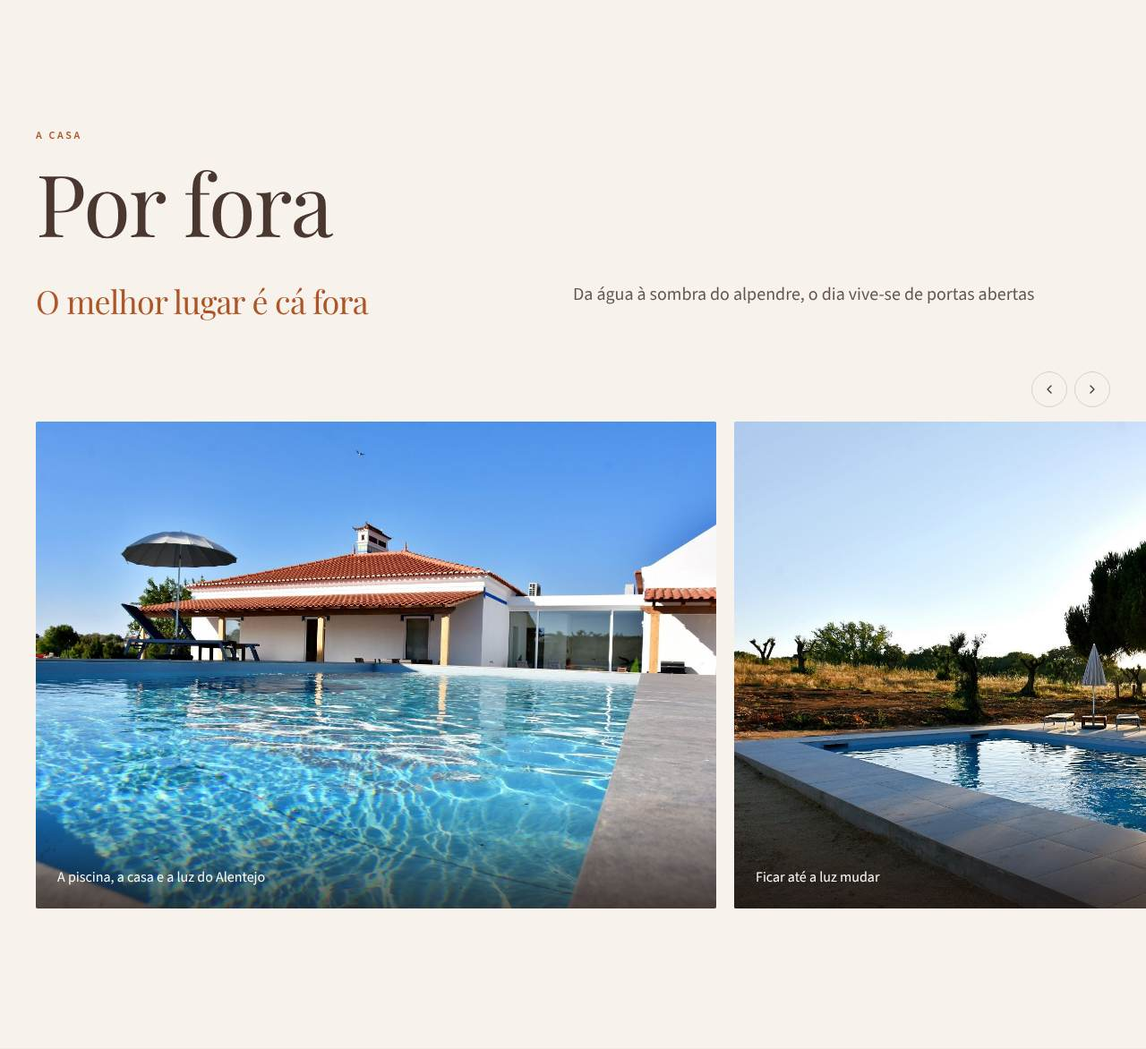
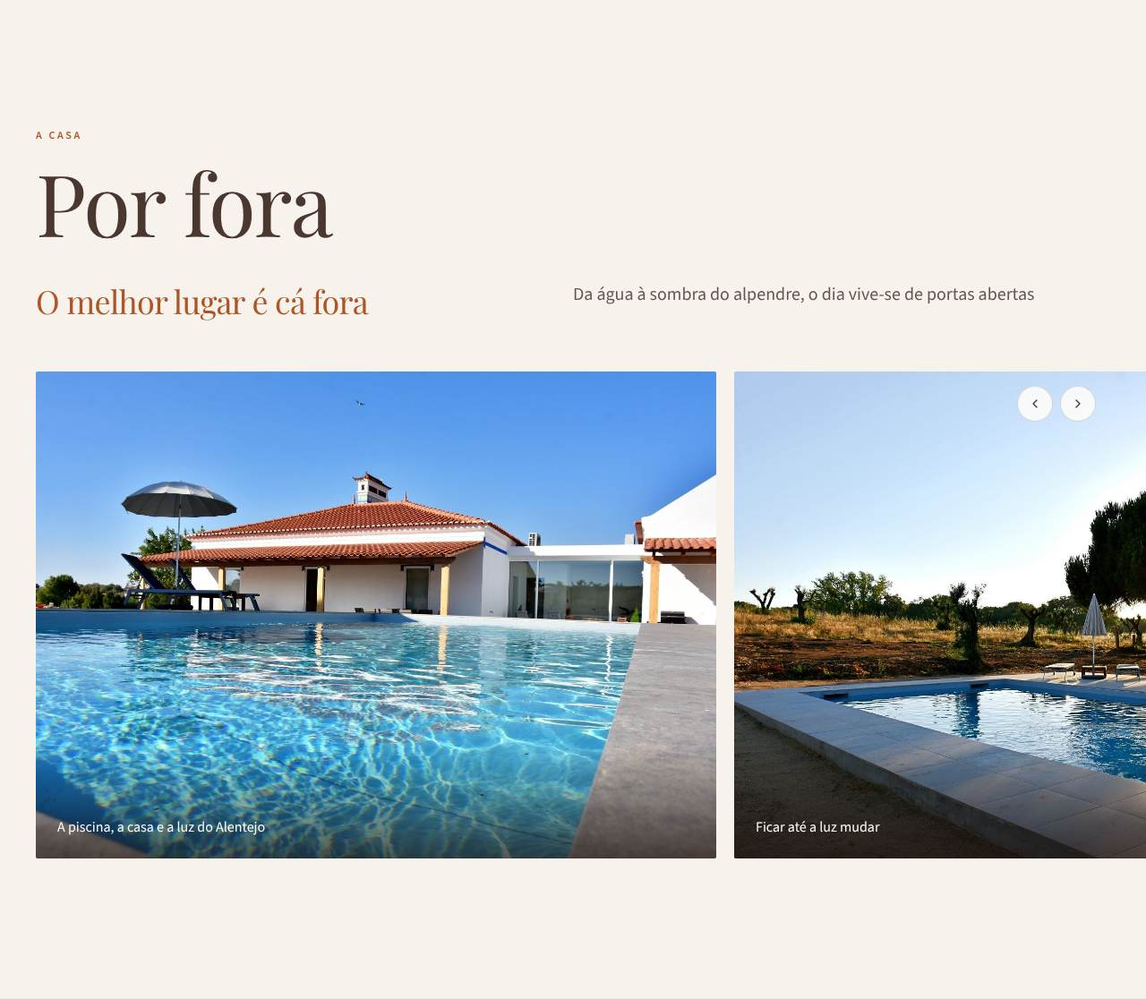
SITE · versão 3: o Lovable recebeu as notas em falta; as setas das sequências pousadas sobre as fotografias (só com rato)
O pedido com as notas do Diogo de 15/11 que não tinham ido a 16/11 (capa 1, sem contagens, setas só com rato, fila do fecho ao acaso
e a andar, «Antes de chegar» em duas colunas, sem «Fotografias», ligações sem «#») foi aceite pelo Lovable a 17/11 às 00h20 (a
tentativa de 16/11 às 23h40 tinha sido recusada por falta de créditos do plano gratuito) e cumprido às 00h28 (versão df8161a do
projeto; nada publicado, nenhum crédito comprado). A capa da pré-visualização do Lovable passou a ser a capa 1.

- lovable/composicao-2026-11-17/: o pedido enviado, a resposta do Lovable, o que mudou no código dele e a folha de estilos dele.
- site/: do desenho novo do Lovable vem a posição das setas das sequências com rato: pousadas sobre as fotografias, em cima à
  direita, em vez de numa linha própria (num ecrã de toque continuam a não existir).
- registos acertados (REGISTO, documento das notas, LEIA-ME do Lovable): o pedido já não está «por enviar».
- capturas da versão 3 e folhas «antes e agora» refeitas.

Nada foi para o servidor: a versão 3 continua por publicar (espera o «Lança»).

Claude-Session: https://claude.ai/code/session_01GB895EUTn8WdbSWUqAdt5J

diff --git a/lovable/composicao-2026-11-17/styles.css b/lovable/composicao-2026-11-17/styles.css
@@ -1,0 +1,140 @@
+@import "tailwindcss" source(none);
+@source "../src";
+@import "tw-animate-css";
+
+@custom-variant dark (&:is(.dark *));
+
+@theme inline {
+  --radius-sm: 2px;
+  --radius-md: 4px;
+  --radius-lg: 6px;
+  --font-serif: "Playfair Display", Georgia, serif;
+  --font-sans: "Source Sans 3", system-ui, sans-serif;
+  --color-background: var(--background);
+  --color-foreground: var(--foreground);
+  --color-card: var(--card);
+  --color-card-foreground: var(--foreground);
+  --color-popover: var(--card);
+  --color-popover-foreground: var(--foreground);
+  --color-primary: var(--primary);
+  --color-primary-foreground: var(--primary-foreground);
+  --color-secondary: var(--secondary);
+  --color-secondary-foreground: var(--foreground);
+  --color-muted: var(--muted);
+  --color-muted-foreground: var(--muted-foreground);
+  --color-accent: var(--accent);
+  --color-accent-foreground: var(--foreground);
+  --color-border: var(--border);
+  --color-input: var(--border);
+  --color-ring: var(--primary);
+  --color-terra: var(--terra);
+  --color-areia: var(--areia);
+  --color-oliva: var(--oliva);
+  --color-pale: var(--pale);
+  --color-on-photo: var(--on-photo);
+}
+
+:root {
+  --background: oklch(0.966 0.01 85);      /* cal #F7F4ED */
+  --foreground: oklch(0.355 0.03 40);      /* ink #49362E */
+  --primary: oklch(0.55 0.13 45);          /* terracota #A75532 */
+  --primary-foreground: oklch(0.985 0.006 85);
+  --card: oklch(0.985 0.006 85);
+  --secondary: oklch(0.88 0.03 65);        /* areia */
+  --accent: oklch(0.88 0.03 65);
+  --muted: oklch(0.94 0.012 75);           /* pale #F0EBE3 */
+  --muted-foreground: oklch(0.65 0.02 60); /* cinza quente #9D9186 */
+  --terra: oklch(0.79 0.045 60);           /* #D1B69E */
+  --areia: oklch(0.88 0.03 65);            /* #E6D6C4 */
+  --oliva: oklch(0.43 0.025 120);          /* #555A48 */
+  --pale: oklch(0.94 0.012 75);
+  --on-photo: oklch(0.99 0.004 85);
+  --border: oklch(0.86 0.02 65);
+  --shade: oklch(0.2 0.02 40);
+}
+
+@layer base {
+  * { border-color: var(--color-border); }
+  html { scroll-behavior: smooth; }
+  body {
+    background-color: var(--color-background);
+    color: var(--color-foreground);
+    font-family: var(--font-sans);
+    -webkit-font-smoothing: antialiased;
+  }
+  h1, h2, h3, .serif { font-family: var(--font-serif); font-weight: 400; letter-spacing: -0.02em; }
+  @media (prefers-reduced-motion: reduce) {
+    html { scroll-behavior: auto; }
+    *, *::before, *::after { animation: none !important; transition: none !important; }
+  }
+}
+
+@utility hero-shade {
+  background: linear-gradient(to bottom, color-mix(in oklab, var(--shade) 16%, transparent) 0%, transparent 12%, transparent 60%, color-mix(in oklab, var(--shade) 30%, transparent) 100%);
+}
+
+@utility hero-copy {
+  text-shadow: 0 1px 3px color-mix(in oklab, var(--shade) 55%, transparent), 0 2px 28px color-mix(in oklab, var(--shade) 65%, transparent);
+}
+
+@utility logo-mask {
+  background-color: currentColor;
+  mask-repeat: no-repeat;
+  mask-size: contain;
+  mask-position: left center;
+}
+
+@utility reveal {
+  opacity: 0;
+  transform: translateY(28px);
+  transition: opacity 1s ease, transform 1s cubic-bezier(0.2, 0.7, 0.2, 1);
+  &.is-in { opacity: 1; transform: none; }
+}
+
+@utility zoom {
+  overflow: hidden;
+  & img { transition: transform 1.4s cubic-bezier(0.2, 0.7, 0.2, 1); }
+  &:hover img { transform: scale(1.05); }
+}
+
+@utility eyebrow {
+  font-size: 0.75rem;
+  letter-spacing: 0.22em;
+  text-transform: uppercase;
+  color: var(--primary);
+  font-weight: 600;
+}
+
+@layer base {
+  body { overflow-x: clip; }
+  a, button, input, select, textarea { -webkit-tap-highlight-color: transparent; }
+  a, button { touch-action: manipulation; }
+}
+
+/* A fixed photograph clipped by the hero gives CSS-only parallax, also on iOS. */
+.hero-parallax { clip-path: inset(0); }
+.hero-parallax picture { position: absolute; inset: 0; }
+.hero-photo { position: fixed; inset: 0; height: 100svh; width: 100%; }
+
+.photo-sequence {
+  -webkit-overflow-scrolling: touch;
+  overscroll-behavior-x: contain;
+  scrollbar-width: none;
+  touch-action: pan-x pan-y;
+}
+.photo-sequence::-webkit-scrollbar { display: none; }
+
+.sequence-controls { display: none; }
+@media (hover: hover) and (pointer: fine) {
+  .sequence-controls { display: flex; }
+}
+
+.rating-arc { stroke-dashoffset: 100; }
+.is-in .rating-arc { animation: rating-fill 1.6s cubic-bezier(0.2, 0.7, 0.2, 1) forwards; }
+@keyframes rating-fill { to { stroke-dashoffset: var(--ring-offset); } }
+
+@media (prefers-reduced-motion: reduce) {
+  .reveal { opacity: 1; transform: none; }
+  .hero-photo { transform: none; }
+  .rating-arc { stroke-dashoffset: var(--ring-offset); animation: none; }
+}

diff --git a/site/assets/css/site.css b/site/assets/css/site.css
@@ -244,12 +244,19 @@ img[style*="--pos"] { object-position: var(--pos, center); }
 /* ---- Sequências ---- (as fotografias de um capítulo, uma de cada vez; inc/util.php → sequencia())
    A faixa rola com a rolagem do browser: o dedo leva as fotografias e o scroll-snap pára cada uma no sítio.
    Cada caixa (li) tem a largura e a altura escritas aqui: a fotografia enche-a, nunca lhe dá o tamanho. */
-.seq { margin-top: 2.5rem; }
+.seq { position: relative; margin-top: 2.5rem; }
 /* Sem contagem («01 / 04»): «não precisa de dizer que tem fotos; a dinâmica do site mostra essa parte» (Diogo, 15/11/2026).
-   As duas setas só existem com rato, que não arrasta a faixa; num ecrã de toque o dedo leva as fotografias e as setas não se vêem. */
+   As duas setas só existem com rato, que não arrasta a faixa; num ecrã de toque o dedo leva as fotografias e as setas não se vêem.
+   Com rato ficam pousadas sobre a faixa, em cima à direita (como o Lovable as pôs a 17/11): assim não ocupam uma linha própria e,
+   tal como no telemóvel, o texto do capítulo é seguido logo pelas fotografias. */
 .seq-setas { display: none; }
 .seq-setas .btn-redondo + .btn-redondo { margin-left: .5rem; }
-@media (hover: hover) and (pointer: fine) { .seq-setas { display: flex; justify-content: flex-end; margin-bottom: 1rem; } }
+@media (hover: hover) and (pointer: fine) {
+  .seq-setas { display: flex; position: absolute; top: 1rem; right: 2rem; z-index: 2; pointer-events: none; }
+  .seq-setas .btn-redondo { pointer-events: auto; border-color: rgba(var(--texto-rgb), .18); background: rgba(var(--claro-rgb), .9); }
+  .seq-setas .btn-redondo:hover { background: rgb(var(--claro-rgb)); }
+}
+@media (hover: hover) and (pointer: fine) and (min-width: 768px) { .seq-setas { right: 3.5rem; } }
 /* --borda-faixa: a margem de cada lado da faixa. Até à largura da página é a margem normal; em ecrãs mais largos cresce, para a
    primeira fotografia começar alinhada com o texto (a faixa continua a ir de um lado ao outro do ecrã). */
 .seq, .fecho { --borda-faixa: var(--pad); }

diff --git a/site/inc/util.php b/site/inc/util.php
@@ -109,7 +109,8 @@ function foto_caixa(array $f, bool $legenda = false): string
  * Nota 8 do Diogo (15/11/2026): «uma foto principal e 2/3 fotos atrás a rolar devagar, onde os clientes podem, com o dedo no mobile
  * ou o rato, acelerar ou parar. Não precisa de dizer que tem fotos. A dinâmica do site mostra essa parte.» Por isso não há contagem
  * («01 / 04») nem rótulos: vê-se a fotografia seguinte a espreitar e o movimento. Nos ecrãs de toque também não há setas (o dedo
- * leva-as); com rato há duas setas pequenas, porque o rato não arrasta, e o rato em cima das fotografias pára o avanço.
+ * leva-as); com rato há duas setas pequenas, pousadas sobre a faixa (em cima, à direita), porque o rato não arrasta, e o rato em
+ * cima das fotografias pára o avanço.
  * Cada caixa tem largura e altura escritas na folha de estilos (site.css, «Sequências»): nada depende do tamanho da fotografia.
  * Foi isso que falhou no iPhone na versão 2 (caixas mais largas do que a fotografia). As fotografias não dependem de JavaScript:
  * estão sempre à vista; «data-entra» só pede ao site.js uma entrada suave quando o bloco chega ao ecrã.
@@ -117,7 +118,7 @@ function foto_caixa(array $f, bool $legenda = false): string
 function sequencia(string $nome, array $fotos): string
 {
     $h = '<div class="seq" data-seq data-entra>';
-    $h .= '<div class="contentor seq-setas">';
+    $h .= '<div class="seq-setas">';
     $h .= '<button type="button" class="btn-redondo btn-seta" data-seq-ir="-1" aria-label="' . e('Fotografia anterior em ' . $nome) . '">' . icone('esq') . '</button>';
     $h .= '<button type="button" class="btn-redondo btn-seta" data-seq-ir="1" aria-label="' . e('Fotografia seguinte em ' . $nome) . '">' . icone('dir') . '</button>';
     $h .= '</div>';

diff --git a/docs/integracao-app/2026-11-15_notas_do_diogo_e_o_que_mudou.md b/docs/integracao-app/2026-11-15_notas_do_diogo_e_o_que_mudou.md
@@ -314,19 +314,20 @@ notas que estivemos a fazer ontem.»** Esta secção responde, nota a nota, com 
 **Resposta curta.** Os textos, a ordem da página, os menus e as regras foram todos no pedido e estão na versão 3. Três coisas não foram
 ditas ao Lovable com as palavras do Diogo, e a composição afastou-se delas: a capa escolhida, «não precisa de dizer que tem fotos» e
 as fotografias do fecho «a rolar random». Uma quarta, o desenho de «Antes de chegar», foi mudada pela composição. **No site, as quatro
-ficaram repostas a 17/11, antes de a versão 3 ser publicada.** Na pré-visualização do Lovable ainda não: o pedido para as acertar está
-escrito (`lovable/composicao-2026-11-16/pedido-seguinte-por-enviar.md`), mas o Lovable recusou-o por falta de créditos.
+ficaram repostas a 17/11, antes de a versão 3 ser publicada.** O Lovable recebeu-as a 17/11, às 00h20 (a primeira tentativa, às 23h40
+de 16/11, foi recusada por falta de créditos do plano gratuito), e às 00h28 a pré-visualização dele já as tinha:
+`lovable/composicao-2026-11-17/`. A coluna do meio do quadro diz o que foi no pedido de 16/11; o de 17/11 levou tudo o que faltava.
 
 | Nota (15/11) | Foi no pedido ao Lovable? | Na versão 3 do site |
 |---|---|---|
-| 1 · a página abria e fugia para «#casa» | Não (é comportamento do site, não desenho). Na pré-visualização do Lovable as ligações ainda deixam «#…» no endereço | Respeitada: as ligações não deixam «#» no endereço; coberto por teste |
-| 2 · brilho e enquadramento da capa → **«capa: 1»** (computador e telemóvel) | **Não.** O pedido dizia «mantém a tua». A pré-visualização do Lovable mostra outra capa (título em baixo, mais escura, fotografia ampliada) | Respeitada desde o início: capa 1 (título no céu, quase sem máscara, sem ampliação); coberto por teste |
+| 1 · a página abria e fugia para «#casa» | Não no pedido de 16/11 (é comportamento do site, não desenho); foi no de 17/11 e o Lovable corrigiu | Respeitada: as ligações não deixam «#» no endereço; coberto por teste |
+| 2 · brilho e enquadramento da capa → **«capa: 1»** (computador e telemóvel) | **Não no pedido de 16/11**, que dizia «mantém a tua»: a pré-visualização do Lovable mostrava outra capa (título em baixo, mais escura, fotografia ampliada). Foi no de 17/11 e a capa de lá passou a ser a 1 | Respeitada desde o início: capa 1 (título no céu, quase sem máscara, sem ampliação); coberto por teste |
 | 7 · título em cascata | Sim | Respeitada |
 | 3, 4, 5, 16 · menus («Entrar pela casa» só na capa; menu de cima; «Por fora · Sem pressa · Por dentro» no menu completo) | Sim | Respeitada: de cima «Montemor-o-Novo · N2 · Passear pelo Monte · Antes de chegar · Avaliações»; completo «A casa» com as três palavras · Montemor-o-Novo · Nacional 2 · Passear pelo Monte · Antes de chegar · Quem já ficou · Contactos |
 | 6a · no fim, perguntar se a ideia do menu se mantém | — | Continua por responder pelo Diogo, depois de ver a versão ao vivo |
 | 6b · outra fotografia no «lá fora», expressivas, sem repetir a da capa | Sim (as fotografias e as legendas foram na lista) | Respeitada: «Por fora» abre com a piscina, a casa e o chapéu; nenhuma fotografia de destaque se repete (teste) |
 | 8 · «Por fora · Sem pressa · Por dentro» é a melhor mensagem da casa; três momentos | Sim («um cartaz que enche o ecrã e um capítulo por palavra») | Respeitada, no desenho do Lovable: cartaz em três linhas com setas (na V2 eram degraus, com «Sem pressa» em itálico); cada capítulo abre com a palavra em grande |
-| 8 · «uma foto principal e 2/3 fotos atrás a rolar devagar … com o dedo no mobile ou rato acelerar ou parar. **Não precisa de dizer que tem fotos.** A dinâmica do site mostra essa parte» | **Só em parte.** Foi «passam em sequência, em círculo; o dedo leva-as». Não foi «não precisa de dizer que tem fotos». O Lovable pôs uma contagem («01 / 04») e duas setas | **Reposta a 17/11.** Sem contagem. No telemóvel sem setas: vê-se a fotografia seguinte a espreitar e o dedo leva-as. Com rato ficam duas setas pequenas (o rato não arrasta) e o rato em cima pára o avanço. Avançam sozinhas, um passo de 5 em 5 segundos, em círculo |
+| 8 · «uma foto principal e 2/3 fotos atrás a rolar devagar … com o dedo no mobile ou rato acelerar ou parar. **Não precisa de dizer que tem fotos.** A dinâmica do site mostra essa parte» | **Só em parte.** Foi «passam em sequência, em círculo; o dedo leva-as». Não foi «não precisa de dizer que tem fotos». O Lovable pôs uma contagem («01 / 04») e duas setas | **Reposta a 17/11.** Sem contagem. No telemóvel sem setas: vê-se a fotografia seguinte a espreitar e o dedo leva-as. Com rato ficam duas setas pequenas, pousadas sobre as fotografias (o rato não arrasta), e o rato em cima pára o avanço. Avançam sozinhas, um passo de 5 em 5 segundos, em círculo |
 | 8 · depois da frase, «as fotos em régua, sem serem exageradamente grandes, **a rolar random**, como a galeria das plataformas» | **Só em parte.** Foi «uma fila de fotografias mais pequenas para levar com o dedo». Não foi «a rolar» nem «random» | **Reposta a 17/11.** Ordem diferente em cada visita; avança sozinha, devagar, um passo de cada vez, para um lado e depois para o outro; o dedo leva-a e ela deixa de avançar |
 | 8 · sem «antes e depois»; sem falar de casas de banho nos destaques | Sim | Respeitada (casas de banho só na galeria e na resposta dos quartos) |
 | 9 · galeria como no Zenfolio; **chama-se «Passear pelo Monte»**; sem marca de água | Sim, mas a frase do pedido («é a tua "Fotografias", com este nome») deixou o Lovable pôr «Fotografias» como sobretítulo | **Reposta a 17/11:** só «Passear pelo Monte», sem sobretítulo. Álbuns O Monte 49 · Os Quartos 12 · A Quinta 18 · Montemor-o-Novo 14 |

diff --git a/docs/versoes/REGISTO.md b/docs/versoes/REGISTO.md
@@ -73,8 +73,9 @@ O desenho de todas as partes vive em `assets/css/site.css` (cada parte tem o seu
   antes de ser publicada** (linhas 3, 4, 6, 7 e 8 do quadro): a contagem e as setas nas fotografias («não precisa de dizer que tem
   fotos»), a fila do fecho parada e por ordem fixa («a rolar random»), «Antes de chegar» fora do desenho da referência dele, e o
   sobretítulo «Fotografias» por cima de «Passear pelo Monte». **A capa 1 não tinha sido passada ao Lovable** (o pedido dizia
-  «mantém a tua»): no site sempre foi a capa 1; a pré-visualização do Lovable ainda mostra outra, e o pedido para a acertar está
-  escrito e por enviar (o Lovable ficou sem créditos a 16/11: `lovable/composicao-2026-11-16/pedido-seguinte-por-enviar.md`).
+  «mantém a tua»): no site sempre foi a capa 1. A 17/11, às 00h20, o Lovable recebeu as notas em falta (capa 1 incluída) e às
+  00h28 a pré-visualização dele já as tinha (`lovable/composicao-2026-11-17/`); do desenho dele veio para o site a posição das
+  setas no computador, pousadas sobre as fotografias.
 - **Capturas:** `docs/versoes/v3/` (refeitas a 17/11, já com as notas repostas).
 - **Ordem da página:** capa → a casa (o cartaz) → por fora → sem pressa → por dentro → fecho → Montemor-o-Novo → Nacional 2 → onde
   estamos → Passear pelo Monte → Antes de chegar → Quem já ficou → contactos.
@@ -83,7 +84,7 @@ O desenho de todas as partes vive em `assets/css/site.css` (cada parte tem o seu
 |---|---|---|
 | 1 Capa | O desenho é o mesmo (a opção 1). «Sem receção, sem pressa» passou para o lado do botão «Entrar pela casa»; o botão de descer fica só na capa (já não acompanha a página); sem desfoques. No computador, a fotografia fica presa e a página passa-lhe por cima | por dizer |
 | 2 A casa | O cartaz do Lovable: «Por fora», «Sem pressa» e «Por dentro» em três linhas, cada uma com a sua seta, entre traços finos; a frase à direita, por baixo. Era em degraus, com a do meio em itálico | por dizer |
-| 3 Os espaços | Três capítulos com abertura própria: «A casa» em cima, a palavra em grande, a frase a cor e o texto; depois as fotografias **uma de cada vez**, grandes, com a legenda escrita sobre cada uma e a seguinte a espreitar. **Sem contagem** («não precisa de dizer que tem fotos; a dinâmica do site mostra essa parte», nota 8). O dedo leva-as; avançam sozinhas, um passo de 5 em 5 segundos, em círculo, até se lhes pegar. No telemóvel não há setas; no computador ficam duas setas pequenas (o rato não arrasta) e o rato em cima das fotografias pára o avanço. «Sem pressa» tem o fundo pálido, para os três não se colarem. Eram filas a rolar sem parar, com a palavra sobre a fotografia | por dizer |
+| 3 Os espaços | Três capítulos com abertura própria: «A casa» em cima, a palavra em grande, a frase a cor e o texto; depois as fotografias **uma de cada vez**, grandes, com a legenda escrita sobre cada uma e a seguinte a espreitar. **Sem contagem** («não precisa de dizer que tem fotos; a dinâmica do site mostra essa parte», nota 8). O dedo leva-as; avançam sozinhas, um passo de 5 em 5 segundos, em círculo, até se lhes pegar. No telemóvel não há setas; no computador ficam duas setas pequenas, pousadas sobre as fotografias, em cima à direita (o rato não arrasta), e o rato em cima das fotografias pára o avanço. «Sem pressa» tem o fundo pálido, para os três não se colarem. Eram filas a rolar sem parar, com a palavra sobre a fotografia | por dizer |
 | 4 Fecho e régua | A frase «Há dias em que não é preciso mais nada» em grande, à esquerda; «Há mais casa para descobrir» com a ligação «Passear pelo Monte»; 18 fotografias mais pequenas (as ao alto mais altas e estreitas), **numa ordem diferente em cada visita e a avançar sozinhas, devagar**, um passo de cada vez, para um lado e depois para o outro («a rolar random», nota 8); o dedo leva-as e, a partir daí, deixam de avançar. A casa ao entardecer saiu daqui: é a fotografia da Nacional 2 | por dizer |
 | 5 Montemor, N2 e onde estamos | Passam a ser **três capítulos**. *Montemor-o-Novo*: fundo pálido e um traço a separá-lo da casa; «A 1 h de Lisboa», o título, o texto e a ligação; as dez fotografias em sequência; a Ecopista do Montado por baixo, com título próprio, separada por um traço. *Nacional 2*: capítulo igual em peso, com a casa ao entardecer («A mesma casa à vossa espera ao fim do dia») e o programa em três linhas (Sexta · Sábado · Domingo). *Onde estamos*: faixa cor de oliva, com as distâncias e o botão do mapa. Era uma só secção: as fotografias coladas ao fecho da casa, a N2 numa caixa ao lado do texto e as distâncias numa coluna | por dizer |
 | 6 A galeria | Só o título «Passear pelo Monte», sem sobretítulo; os quatro separadores à vista (em duas linhas no telemóvel); as mesmas 93 fotografias nos mesmos álbuns, em duas colunas no telemóvel e três no computador | por dizer |

diff --git a/lovable/composicao-2026-11-17/pedido-ao-lovable.md b/lovable/composicao-2026-11-17/pedido-ao-lovable.md
@@ -1,21 +1,24 @@
-# Seguimento ao Lovable: as notas do Diogo que não foram no pedido de 16/11 de manhã
+# Seguimento ao Lovable: as notas do Diogo que não tinham ido no pedido de 16/11
 
-**Estado: POR ENVIAR.** A 16/11/2026, às 23h40, o Lovable recusou a mensagem: «Your workspace is out of credits» (plano gratuito do
-espaço «MONTE's Lovable»; os créditos do dia foram gastos com o pedido da manhã). Não se compram créditos sem ordem do Diogo. O texto
-fica aqui, pronto: envia-se quando os créditos voltarem (o plano gratuito repõe alguns por dia) ou quando o Diogo disser para pôr créditos.
+**Estado: ENVIADO a 17/11/2026, às 00h20, e concluído pelo agente do Lovable às 00h28** (versão `df8161a` do projeto «Monte Casa
+Branca»; a anterior era a `088eae5`, de 16/11). Nada foi publicado, nenhum serviço foi ligado e não se compraram créditos.
+A primeira tentativa, a 16/11 às 23h40, foi recusada («Your workspace is out of credits»: o plano gratuito tinha gasto os créditos do
+dia com o pedido da manhã); depois da meia-noite os créditos do dia seguinte já lá estavam.
 
 **Porquê este seguimento.** O Diogo perguntou, a 16/11: «Espero que estejas a considerar e tenhas passado ao Lovable as notas que
 estivemos a fazer ontem.» A conferência nota a nota (`docs/integracao-app/2026-11-15_notas_do_diogo_e_o_que_mudou.md`, secção 6) mostrou
 que o pedido da manhã levou os textos, a ordem e as regras, mas não levou a decisão da capa (dizia «mantém a tua») nem as palavras
 dele sobre as fotografias («não precisa de dizer que tem fotos», «a rolar random»), e que a composição devolvida mudou o desenho de
-«Antes de chegar» em relação à referência que ele deu. **No site (`site/`, versão 3) isto já está reposto**; o que falta é a
-pré-visualização do Lovable ficar igual, para o Diogo ver a mesma coisa nos dois sítios.
+«Antes de chegar» em relação à referência que ele deu. No site (`site/`, versão 3) isso ficou reposto a 17/11; este pedido pôs a
+pré-visualização do Lovable igual, para o Diogo ver a mesma coisa nos dois sítios.
 
-## O texto a enviar (uma só mensagem, ao agente do projeto «Monte Casa Branca»)
+**O que o Lovable respondeu e fez** está em `LEIA-ME.md`, nesta pasta.
 
-Seguimento do pedido desta manhã (16/11/2026), enviado pelo Claude em nome do Diogo. Palavras dele: «Espero que estejas a considerar e tenhas passado ao Lovable as notas que estivemos a fazer ontem.»
+## O texto enviado (uma só mensagem, ao agente do projeto «Monte Casa Branca»)
 
-A composição que fizeste esta manhã fica. Faltou passar-te algumas decisões que o Diogo tomou a 15/11. Ajusta só os sete pontos abaixo, sem mexer em mais nada (textos, fotografias, ordem, cores e o resto da composição ficam como estão).
+Seguimento do pedido de 16/11/2026, enviado pelo Claude em nome do Diogo. Palavras dele: «Espero que estejas a considerar e tenhas passado ao Lovable as notas que estivemos a fazer ontem.»
+
+A composição que fizeste a 16/11 fica. Faltou passar-te algumas decisões que o Diogo tomou a 15/11. Ajusta só os sete pontos abaixo, sem mexer em mais nada (textos, fotografias, ordem, cores e o resto da composição ficam como estão).
 
 1 · CAPA. Decisão dele, por olho, entre três opções: «capa: 1», no computador e no telemóvel. A queixa era o brilho: «por causa da máscara inicial a foto parece muito escura» e via-se pouco da casa. A capa 1 é assim:
 - O título vai para cima, sobre o céu, logo por baixo do logótipo (a cerca de 6rem do topo no telemóvel e 6,75rem no computador, alinhado à esquerda com o logótipo). Dois degraus: «Uma casa inteira» e, por baixo, mais pequena, em itálico e afastada da margem, «O Alentejo à vossa porta».
@@ -40,7 +43,7 @@ A composição que fizeste esta manhã fica. Faltou passar-te algumas decisões 
 
 7 · LIGAÇÕES INTERNAS. Ao clicar no menu ou nos botões, a página vai à secção sem deixar «#secção» no endereço. Foi a primeira nota dele: com o «#» no endereço, ao reabrir a página ela saltava logo para essa secção.
 
-REGRAS TÉCNICAS (as mesmas desta manhã): movimento só com CSS e IntersectionObserver; nada de JavaScript a mexer no scroll a cada frame; caixas das fotografias com largura e altura explícitas; tem de correr bem no Safari do iPhone, sem prender a rolagem da página.
+REGRAS TÉCNICAS (as mesmas de 16/11): movimento só com CSS e IntersectionObserver; nada de JavaScript a mexer no scroll a cada frame; caixas das fotografias com largura e altura explícitas; tem de correr bem no Safari do iPhone, sem prender a rolagem da página.
 
 NÃO FAZER: não publicar, não mudar domínio nem serviços, não comprar créditos.
 

diff --git a/lovable/composicao-2026-11-17/LEIA-ME.md b/lovable/composicao-2026-11-17/LEIA-ME.md
@@ -1,0 +1,56 @@
+# Composição do Lovable de 17/11/2026: as notas do Diogo de 15/11 que faltavam
+
+Seguimento da composição de 16/11 (`../composicao-2026-11-16/`). O pedido está em `pedido-ao-lovable.md`; aqui fica o que o Lovable
+respondeu e o que mudou no projeto dele. Projeto «Monte Casa Branca», versão `df8161a` (a de 16/11 era a `088eae5`).
+Para ver ao vivo, com dados de exemplo: a pré-visualização do projeto (a ligação está em `docs/versoes/REGISTO.md`, ficha da V3).
+
+## A resposta do Lovable (17/11, 00h28), tal como veio
+
+> Apliquei apenas os sete pontos:
+>
+> 1. **Capa:** título sobre o céu a 96/108 px do topo, segundo degrau em itálico, conteúdo sobre a água, gradiente mínimo
+>    16 %/0 %/30 %, sombra de texto e fotografia sem ampliação.
+> 2. **Capítulos e Montemor:** removi as contagens; as setas só aparecem com rato e o avanço pausa sob o rato.
+> 3. **Fila do fecho:** ordem aleatória por visita, avanço lento, inversão no fim e paragem definitiva após interação.
+> 4. **Antes de chegar:** duas colunas no computador, título em três linhas e sinais «+»/«−» funcionais.
+> 5. **Passear pelo Monte:** removi o sobretítulo «Fotografias».
+> 6. **Quem já ficou:** removi a contagem, mantendo rotação e avanço por toque.
+> 7. **Ligações internas:** navegação suave sem deixar «#secção» no endereço.
+>
+> **QA:** build e verificação de tipos sem erros; 3 testes passaram. A 390 × 844 e 1280 × 900 confirmei posições, controlos, ordem
+> aleatória, inversão, pausa, FAQ, navegação e ausência de rolagem horizontal ou erros de consola. Com movimento reduzido, não há
+> avanço automático.
+>
+> Alterados: `src/routes/index.tsx`, `src/styles.css` e `roadmap.md`. Não publiquei nem alterei serviços. O swipe num iPhone físico
+> continua pendente de validação no dispositivo.
+
+A capa da pré-visualização foi conferida pela imagem que o Lovable guarda do projeto: título no céu, segunda linha em itálico e mais
+pequena, fotografia clara e sem ampliação, o resto sobre a água. É a capa 1.
+
+## O que mudou no código dele (lido no diff `088eae5` → `df8161a`)
+
+- `src/styles.css` (guardado inteiro nesta pasta): a máscara da capa passou de 35 % · 25 % · 75 % para 16 % · 0 % · 30 %; regra nova
+  `hero-copy` (sombra do texto); regra nova `.sequence-controls` (as setas só existem com `hover: hover` e `pointer: fine`).
+- `src/routes/index.tsx` (não guardado aqui: são mais de mil linhas e só mudaram estes pontos; o ficheiro completo está no projeto):
+  - **Capa:** a fotografia perdeu o `scale-[1.06]`; o título saiu do bloco de baixo e ficou preso ao cimo (`top-24`, `md:top-[6.75rem]`),
+    com a segunda linha em itálico; em baixo ficam a linha, as etiquetas, o botão e «Sem receção, sem pressa».
+  - **Sequências:** saiu a contagem; as duas setas passaram para cima das fotografias, em cima à direita, com fundo claro
+    (`sequence-controls`); o rato a entrar pára o avanço e a sair retoma.
+  - **Fila do fecho:** a lista é baralhada ao abrir a página; um relógio de 3,8 s dá um passo de cada vez com a página parada, troca
+    de sentido nas pontas e pára de vez quando alguém lhe pega (ou, com rato, quando o rato lhe passa por cima).
+  - **Antes de chegar:** grelha de doze colunas a partir do tablet, título em três linhas à esquerda, perguntas à direita com «+» e «−».
+  - **Passear pelo Monte:** saiu o sobretítulo.
+  - **Quem já ficou:** saiu a contagem.
+  - **Ligações internas:** componente novo `InternalLink`, que rola até à secção e limpa o «#» do endereço; usado na capa, no cartaz,
+    no fecho e no menu.
+- Ficheiros do próprio Lovable, que não são do site: `roadmap.md` (a lista dele) e `.lovable/north-star/north-star.md`.
+
+## O que passou daqui para o site
+
+Quase tudo já lá estava (o site foi reposto antes de o Lovable receber este pedido). Do desenho novo do Lovable veio uma coisa:
+**as setas das sequências pousadas sobre as fotografias, em cima à direita, só com rato** (no site estavam numa linha própria por cima
+da faixa). Duas diferenças ficaram de propósito:
+
+- no site, «Antes de chegar» só passa a duas colunas a partir de 900 px de largura (no Lovable é a partir de 768 px, onde o título em
+  três linhas fica apertado);
+- no site, o rato em cima da fila do fecho suspende o avanço e ele retoma quando o rato sai (no Lovable pára de vez).

diff --git a/lovable/LEIA-ME.md b/lovable/LEIA-ME.md
@@ -28,12 +28,16 @@ a composição para o `site/`.
   - `index.tsx` e `styles.css`: o que o Lovable devolveu (a página inteira e os estilos), tal e qual, para consulta. Não é código do
     site: foi passado à mão para `site/partes/`, `site/assets/css/site.css` e `site/assets/js/site.js`, com outra construção por baixo
     (ver o cimo desses dois ficheiros) e com a capa que o Diogo escolheu a 15/11 em vez da do Lovable.
-  - `pedido-seguinte-por-enviar.md`: **por enviar.** A 16/11 o Diogo perguntou se as notas de 15/11 tinham sido passadas ao Lovable.
-    A conferência (documento das notas de 15/11, secção 6) mostrou que o pedido da manhã não levou a decisão da capa («capa: 1»)
-    nem as palavras dele sobre as fotografias («não precisa de dizer que tem fotos», «a rolar random»), e que a composição mudou
-    o desenho de «Antes de chegar». No site (`site/`) isso ficou reposto a 17/11; este ficheiro é o pedido para a pré-visualização
-    do Lovable ficar igual. O Lovable recusou-o por falta de créditos (plano gratuito); envia-se quando voltarem ou quando o Diogo
-    mandar pôr créditos. Até lá, **a pré-visualização do Lovable não é a referência: a referência é o site em `novo.`**
+- **`composicao-2026-11-17/`** · o seguimento: as notas do Diogo de 15/11 que não tinham ido no pedido de 16/11. O Diogo perguntou
+  se as notas tinham sido passadas ao Lovable; a conferência (documento das notas de 15/11, secção 6) mostrou que o pedido de 16/11
+  não levou a decisão da capa («capa: 1») nem as palavras dele sobre as fotografias («não precisa de dizer que tem fotos», «a rolar
+  random»), e que a composição mudou o desenho de «Antes de chegar». No site (`site/`) isso ficou reposto a 17/11; o pedido de
+  17/11 pôs a pré-visualização do Lovable igual (capa 1, sem contagens, setas só com rato, fila ao acaso e a andar, «Antes de
+  chegar» em duas colunas, sem «Fotografias», ligações sem «#»).
+  - `pedido-ao-lovable.md`: o pedido (enviado às 00h20; a primeira tentativa, às 23h40 de 16/11, foi recusada por falta de créditos).
+  - `LEIA-ME.md`: a resposta do Lovable, o que mudou no código dele e o que passou daí para o site (as setas pousadas sobre as
+    fotografias, só com rato). `styles.css`: a folha de estilos dele, inteira.
+  - **A referência do que vai para o ar é sempre o site (`site/`, visto em `novo.`), não a pré-visualização do Lovable.**
 - **`capturas/2026-11-16/`** · essa composição fotografada, no telemóvel e no computador (montada na sessão com as fotografias reais).
 - Para a ver ao vivo, com dados de exemplo: a pré-visualização do projeto no Lovable (a ligação está em `docs/versoes/REGISTO.md`, ficha
   da V3). O Lovable não foi publicado nem ligado a serviços, e não se compraram créditos.
